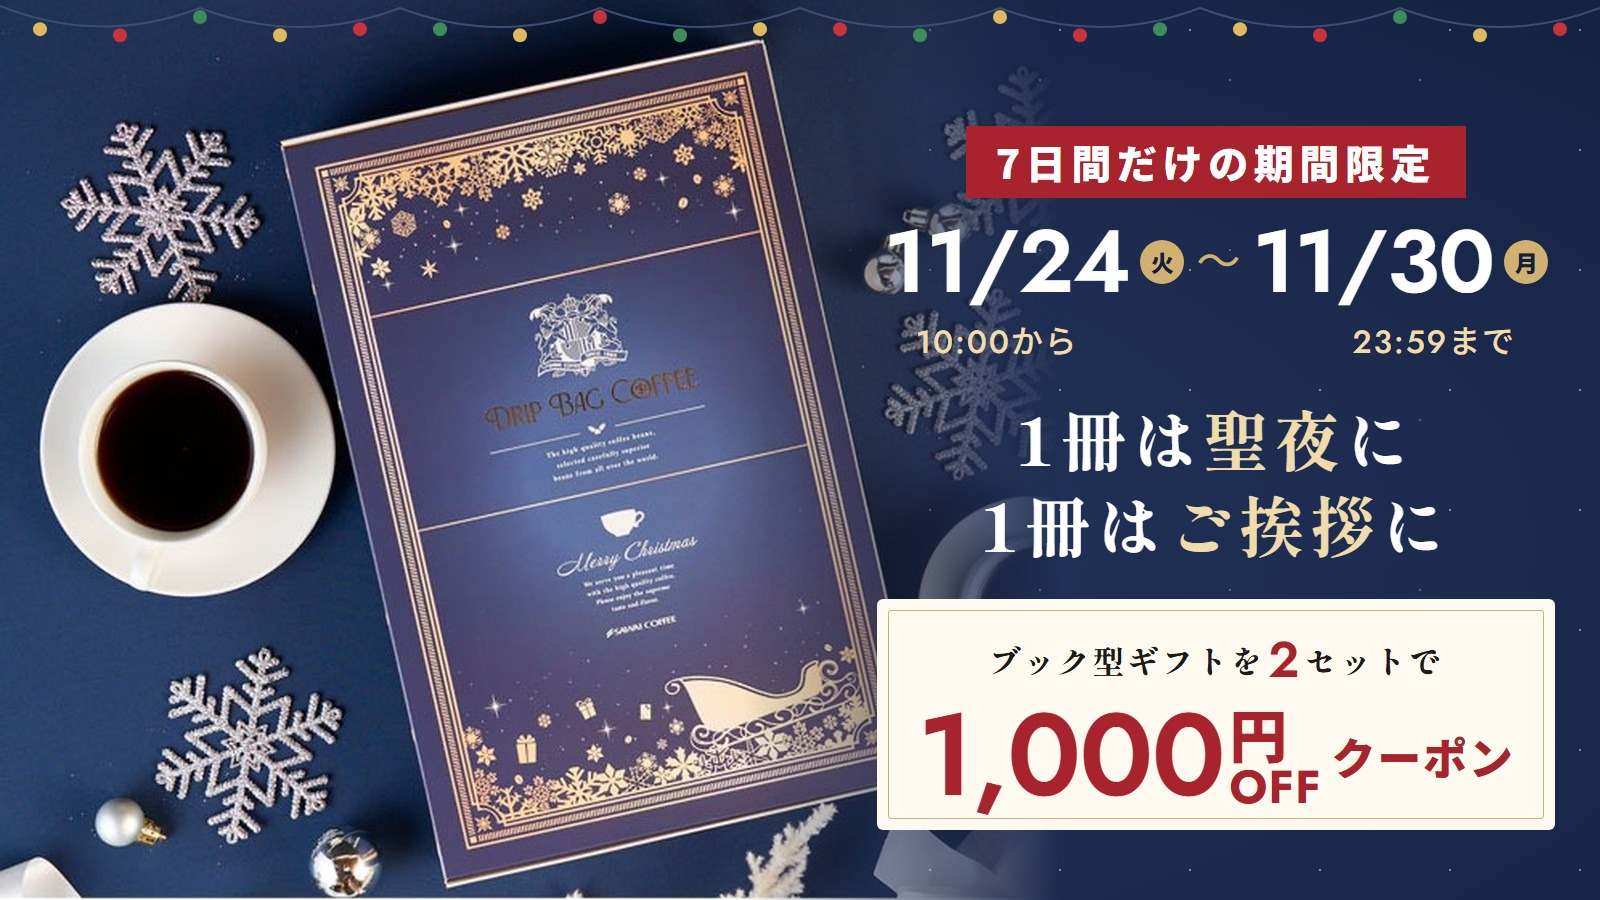
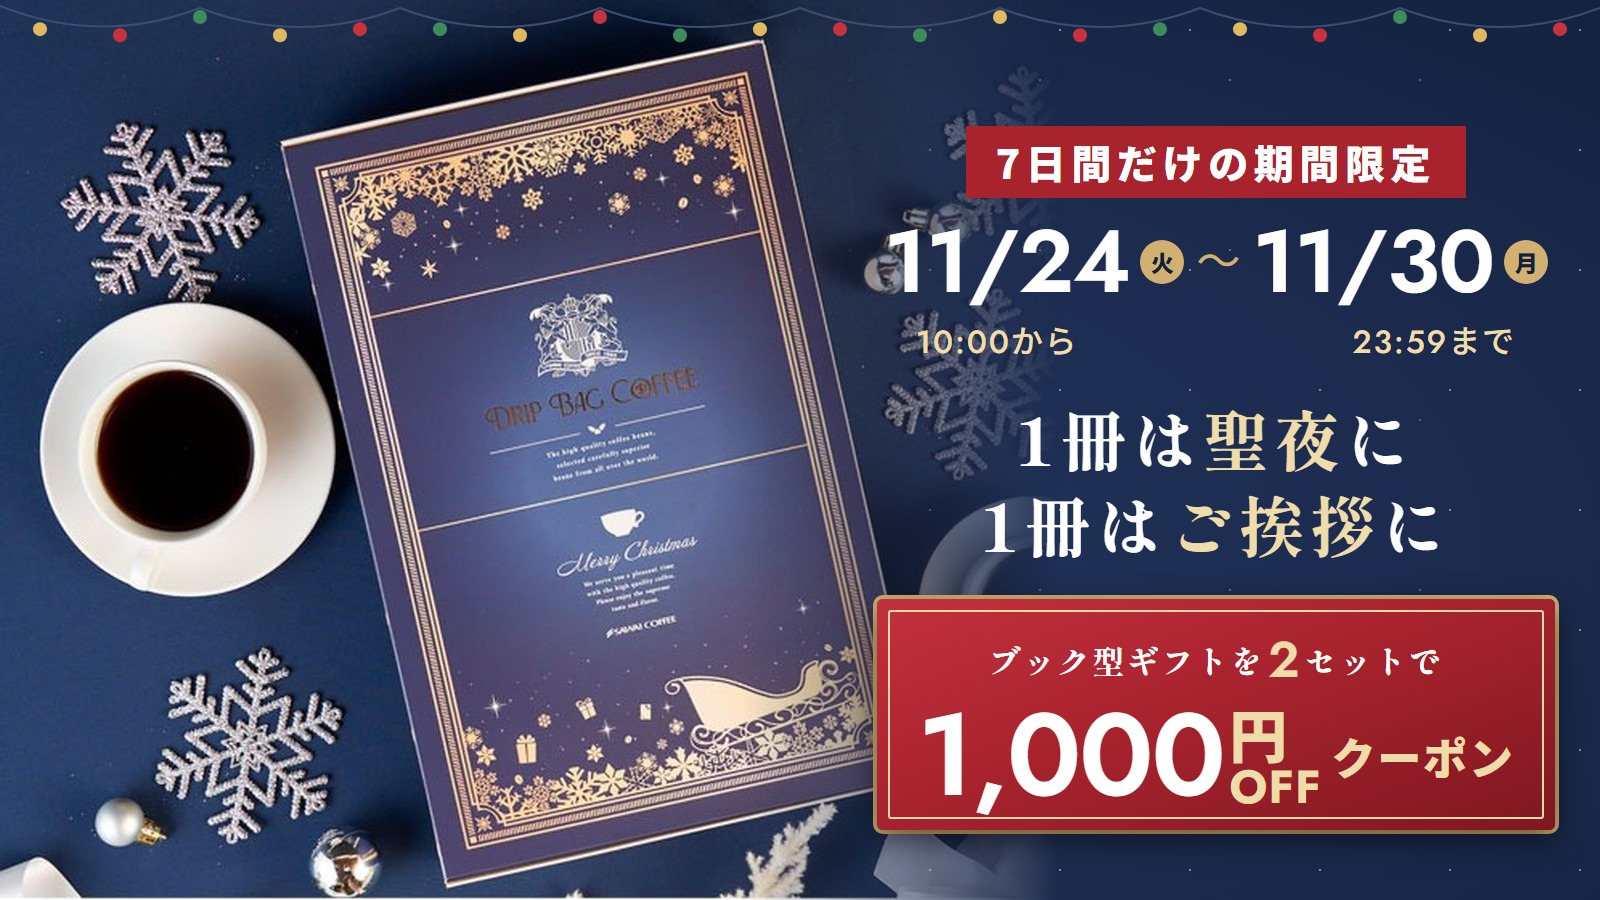
fix: 横長バナー2サイズのクーポン札も赤にそろえる

Changed region(s): [[0.5312, 0.6533, 1.0, 0.9644]]

diff --git a/banner/banner.html b/banner/banner.html
@@ -31,18 +31,20 @@ i{font-style:normal}
 .ttl em{font-style:normal;color:var(--gold-l)}
 
 /* クーポン札 */
-.tk{position:relative;background:var(--paper);color:var(--red);text-align:center;border-radius:6px;white-space:nowrap}
-.tk::before{content:"";position:absolute;border:1.5px solid var(--gold);border-radius:3px;pointer-events:none}
-.tk__pre{font-family:var(--min);font-weight:800;color:var(--ink);letter-spacing:.08em}
-.tk__pre b{font-family:var(--num);font-weight:600;color:var(--red)}
+.tk{position:relative;background:linear-gradient(160deg,#c3303d,#a8232e 45%,#7f1720);color:#fff;text-align:center;border-radius:6px;white-space:nowrap;box-shadow:0 10px 30px #0008,0 0 0 4px var(--gold)}
+.tk::before{content:"";position:absolute;border:2px solid var(--gold-l);border-radius:3px;pointer-events:none}
+.tk__pre{font-family:var(--min);font-weight:800;color:#fff;letter-spacing:.08em}
+.tk__pre b{font-family:var(--num);font-weight:600;color:var(--gold-l)}
 .tk__row{display:flex;align-items:center;justify-content:center}
+.tk .off{color:#fff}
+.tk .off__u .y,.tk .off__u .o{color:var(--gold-l)}
 .off{display:inline-flex;align-items:center;line-height:1}
 .off>b{font-family:var(--num);font-weight:600;font-size:1em;line-height:.8;letter-spacing:-.02em}
 .off__u{display:flex;flex-direction:column;align-items:flex-start;justify-content:center;gap:.04em;margin-left:.05em}
 .off__u i{display:block;line-height:.9}
 .off__u .y{font-family:var(--sans);font-weight:900;font-size:.5em;line-height:1}
 .off__u .o{font-family:var(--num);font-weight:700;font-size:.4em;letter-spacing:.02em}
-.tk__c{font-weight:900;letter-spacing:.04em}
+.tk__c{font-weight:900;letter-spacing:.04em;color:var(--gold-l)}
 
 /* ===== 1600x900 ===== */
 .s900{width:1600px;height:900px}
@@ -77,7 +79,7 @@ i{font-style:normal}
 .s311 .times{display:flex;justify-content:space-between;width:100%;max-width:420px;margin-top:4px;padding:0 14px}
 .s311 .times span{font-family:var(--num);font-weight:500;font-size:24px;color:var(--gold-l);letter-spacing:.04em}
 .s311 .ttl{margin-top:8px;font-size:32px}
-.s311 .tk{position:absolute;z-index:2;right:40px;top:calc(50% + 15px);transform:translateY(-50%);padding:18px 28px 16px}
+.s311 .tk{position:absolute;z-index:2;right:44px;top:calc(50% + 15px);transform:translateY(-50%);padding:18px 28px 16px;box-shadow:0 6px 18px #0008,0 0 0 3px var(--gold)}
 .s311 .tk::before{inset:8px}
 .s311 .tk__pre{font-size:25px}.s311 .tk__pre b{font-size:40px;margin:0 .06em;vertical-align:-.06em}
 .s311 .tk__row{margin-top:6px}
